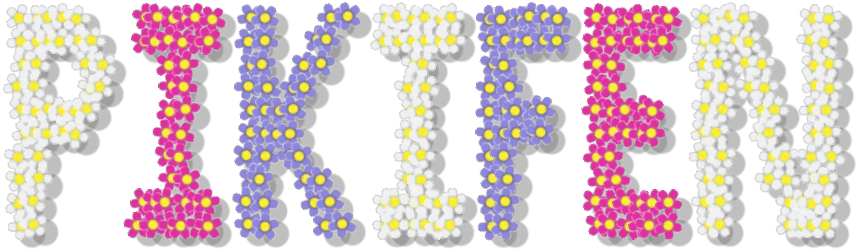
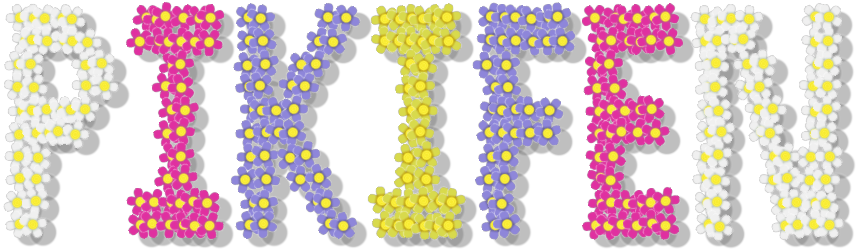
Added the new yellow flowers to the Pikifen wordmark.

diff --git a/manual/content/changelog.html b/manual/content/changelog.html
@@ -17,7 +17,7 @@
     
     <p>The following is a general changelog for <i>Pikifen</i>. This changelog will only list the most notable differences between each version of the engine; for a more detailed list of changes throughout the development period, check the <a href="https://github.com/Espyo/Pikifen/commits/master">commit log on GitHub</a>.</p>
 
-    <p>Some versions may be unable to read content created in older versions. If you want to keep your content from one version to the next, read the "Breaking changes" list in that update's section.</p>
+    <p>Some versions may be unable to read content created in older versions. If you want to keep your content from one version to the next, read the "Compatibility changes" list in that update's section.</p>
 
     <p>Versions are numbered after the format <code>major.minor.revision</code>. The major number increases when the project is notably different from the major version before it. The minor number increases every time there are a bunch of changes. The revision number increases when there are bug fixes on the revision before it, and does not break compatibility unless that's necessary to fix something.</p>
     
